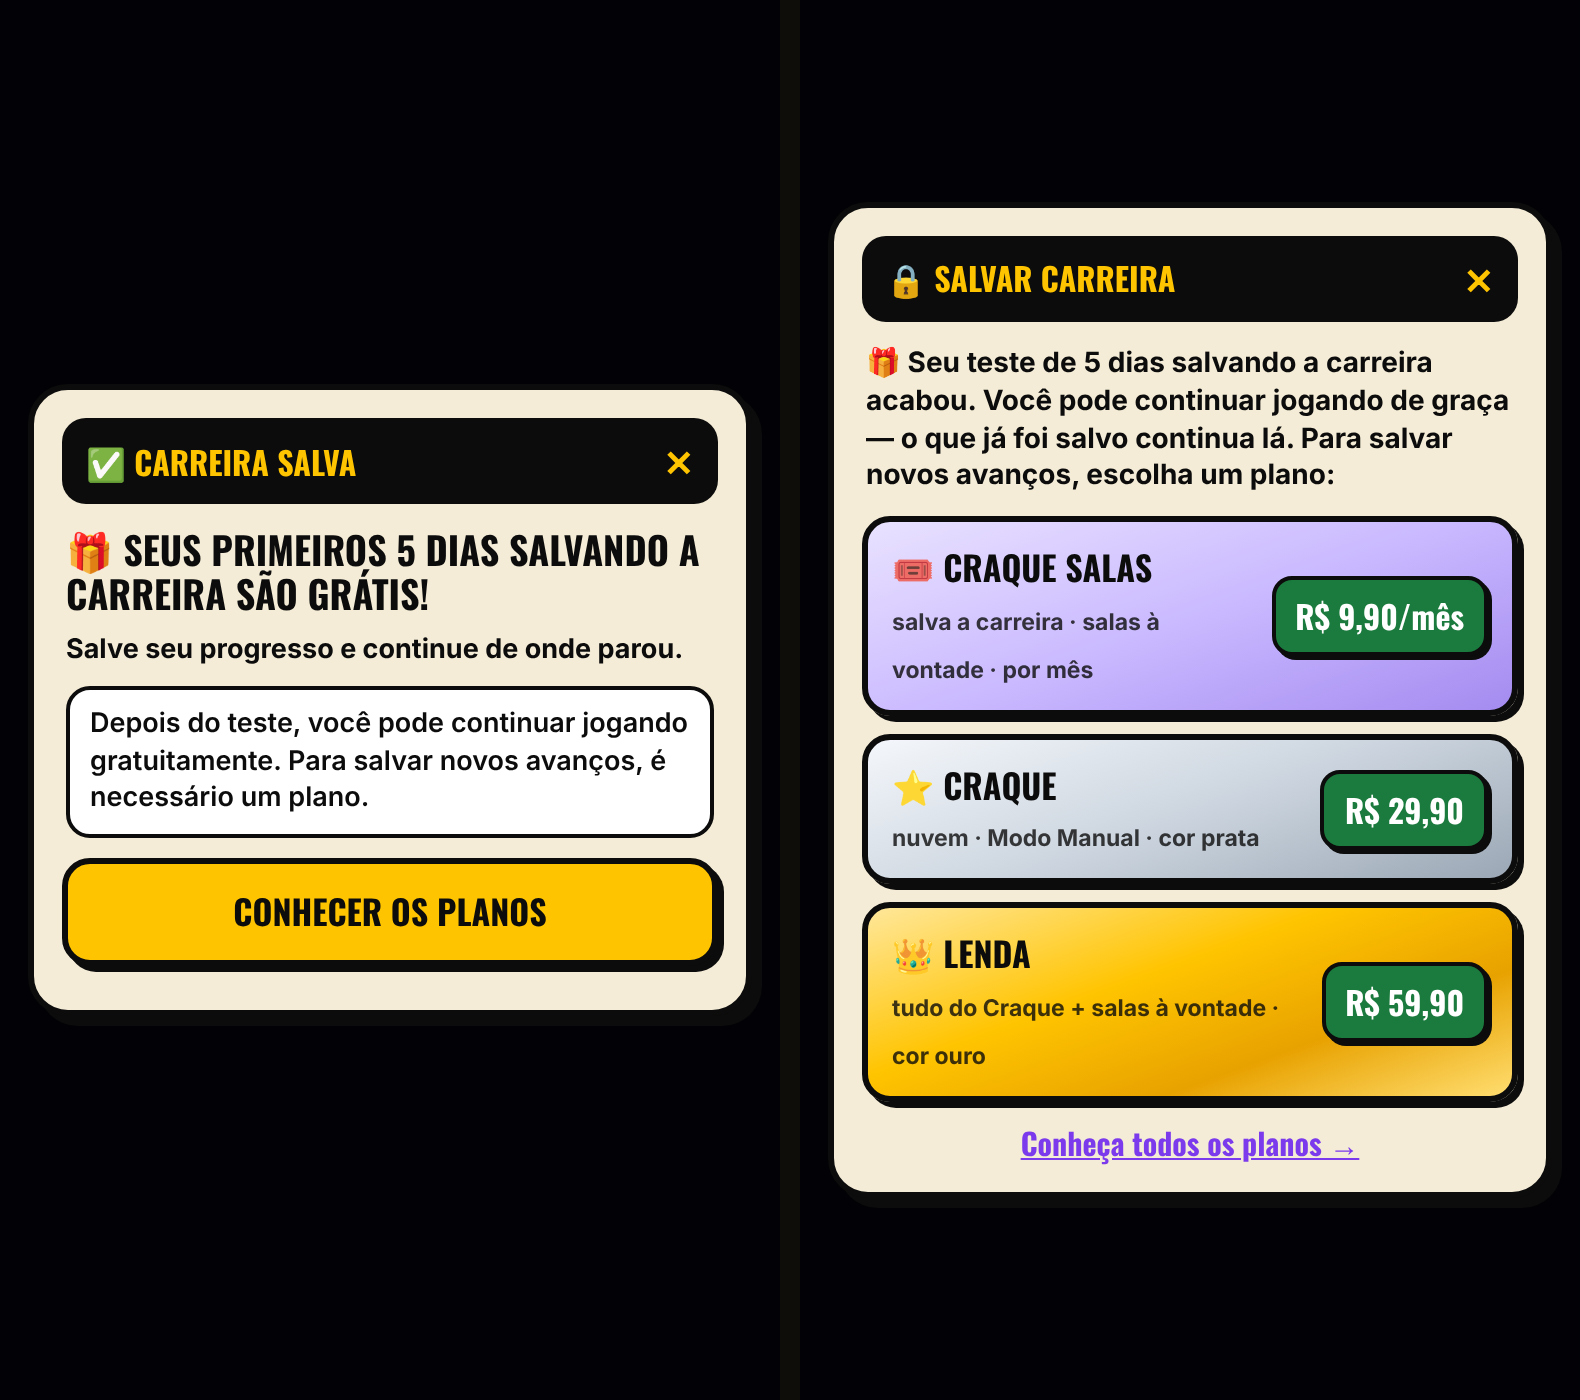
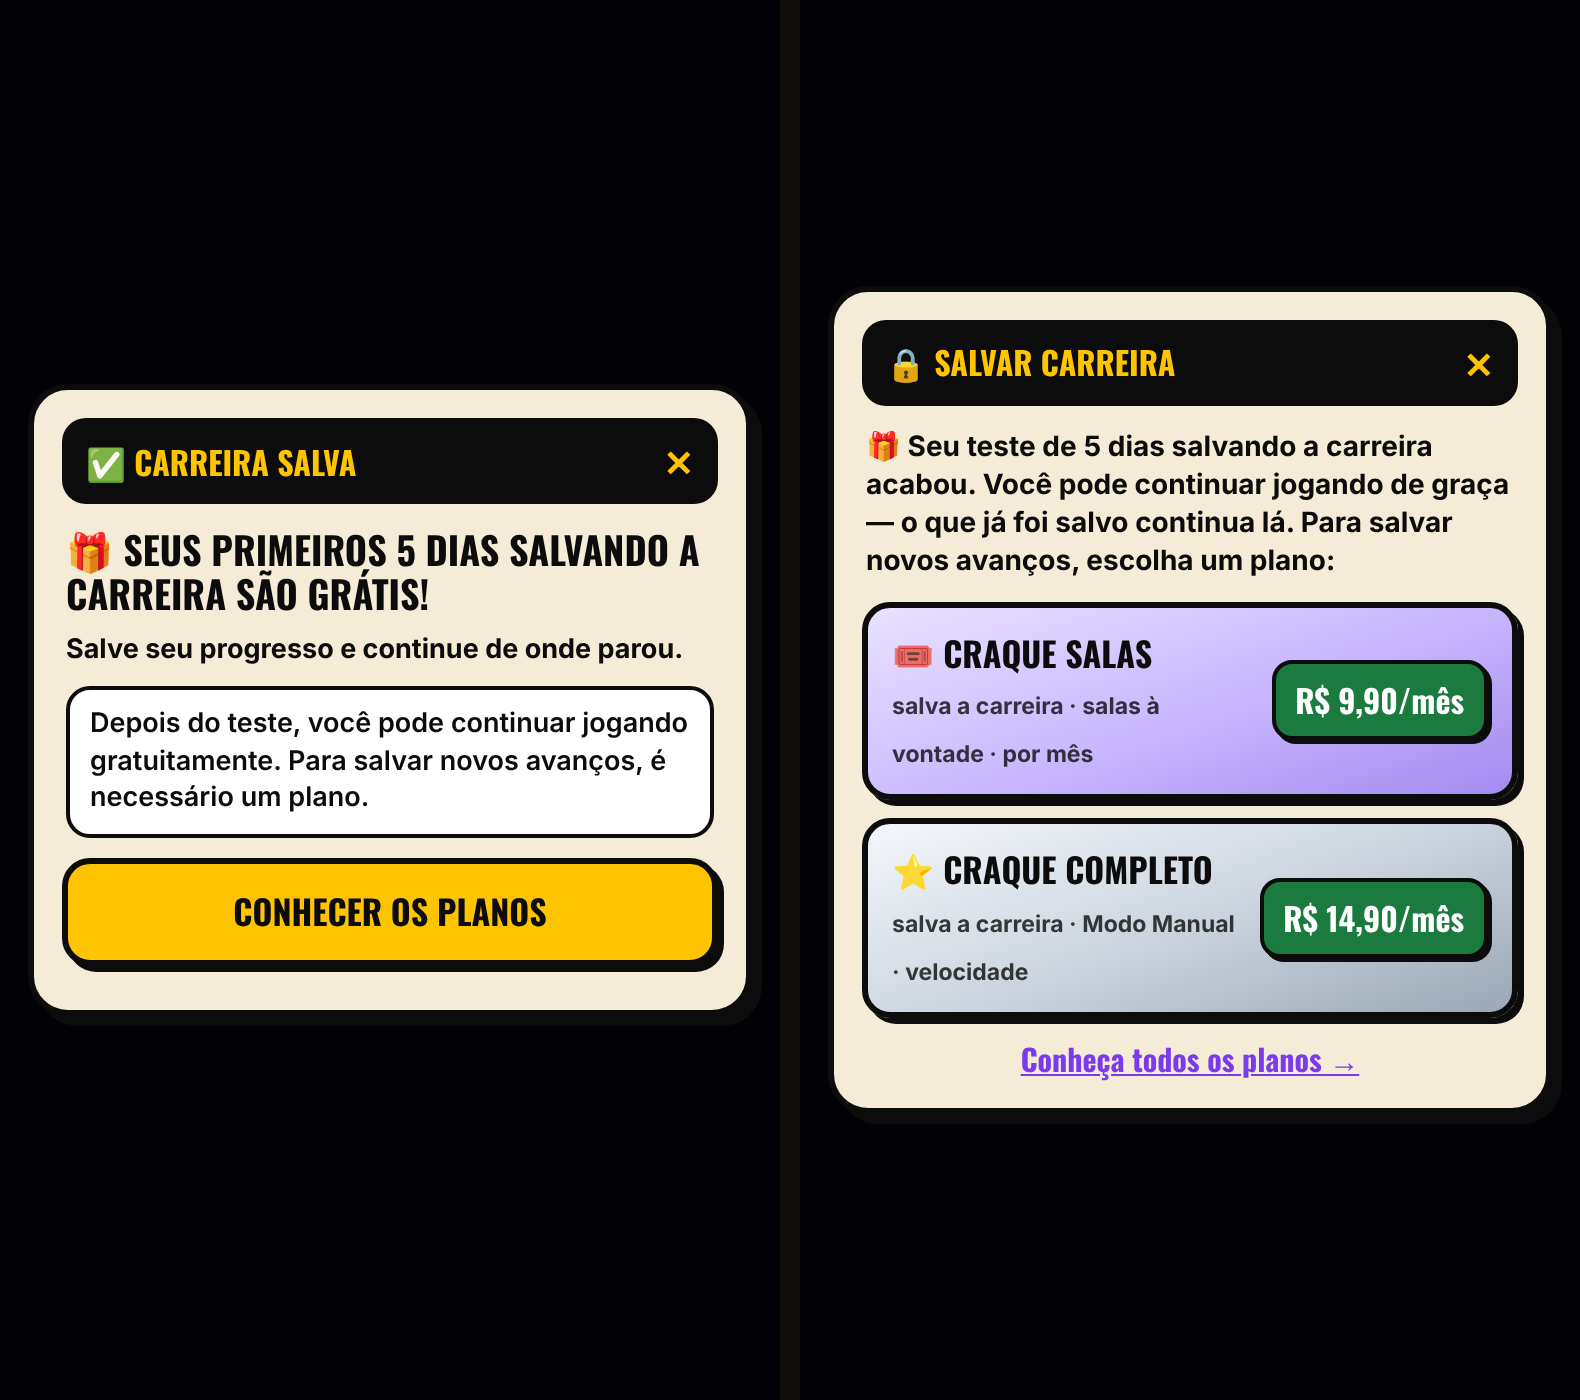
Cadeado do Salvar: mostra os planos de hoje (Craque Salas e Craque Completo mensais) no lugar do Craque/Lenda antigos
Claude-Session: https://claude.ai/code/session_012GPrTDbpvrApA6DArkzCpE

Changed region(s): [[0.5272, 0.1229, 0.9924, 0.86]]

diff --git a/src/escalacao/nuvem-planos.tsx b/src/escalacao/nuvem-planos.tsx
@@ -3,12 +3,9 @@
 // fica só no aparelho) e o aviso era uma faixinha que sumia em 2 s. Agora, ao apertar 💾 Salvar (ou 🚪 Sair e salvar) SEM
 // plano, abre esta janela. Ordem dele: *"não precisa falar que tá salvo no celular… bota só os planos, Craque, Lenda, e embaixo
 // 'conheça todos os planos'"* — que abre a vitrine com TODOS.
-import { useState } from 'react'
 import { createPortal } from 'react-dom'
 import { tr } from './lang'
-import { PixMP } from './pix-mp'
-import { PRECOS_UNICO } from './planos-regras'
-import { usePixMp } from './sport'
+import { MENSAIS } from './planos-regras'
 import { logApoio } from './apoio'
 import { assinarMensal } from './vendria-checkout'
 
@@ -19,22 +16,6 @@ const abre = (alvo: string) => { window.location.href = `${window.location.origi
 /** `aviso7` (26/10): a conta sem plano acabou de salvar na nuvem pela 1ª vez — a janela avisa do prazo de 7 dias */
 /** `travado` (04/11): sem plano a carreira não salva mais (nem no aparelho) — a janela abre no 🔒 Salvar com o Craque Salas no topo */
 export function JanelaNuvemPlanos({ onClose, aviso7, travado }: { onClose: () => void; aviso7?: boolean; travado?: boolean }) {
-  const pixMp = usePixMp()
-  const [pagando, setPagando] = useState<'craque' | 'lenda' | null>(null)
-  const escolhe = (p: 'craque' | 'lenda') => {
-    logApoio(`☁ salvar sem plano → ${p}`)
-    if (pixMp) setPagando(v => v === p ? null : p)
-    else abre(p === 'lenda' ? 'lenda' : 'craque')
-  }
-  const Plano = ({ p, nome, sub, grad }: { p: 'craque' | 'lenda'; nome: string; sub: string; grad: string }) => (
-    <div style={{ marginBottom: 9 }}>
-      <button onClick={() => escolhe(p)} style={{ width: '100%', display: 'flex', justifyContent: 'space-between', alignItems: 'center', gap: 8, textAlign: 'left', border: `3px solid ${INK}`, borderRadius: 14, padding: '10px 12px', background: grad, boxShadow: `3px 3px 0 ${INK}`, cursor: 'pointer', color: INK }}>
-        <span><b style={{ ...OSW, fontSize: 17, display: 'block', textTransform: 'uppercase' }}>{nome}</b><small style={{ fontSize: 11.5, fontWeight: 700, opacity: .8 }}>{sub}</small></span>
-        <span style={{ ...OSW, fontSize: 16, background: GREEN, color: '#fff', border: `2px solid ${INK}`, borderRadius: 10, padding: '6px 10px', boxShadow: `2px 2px 0 ${INK}`, whiteSpace: 'nowrap' }}>R$ {PRECOS_UNICO[p].toFixed(2).replace('.', ',')}</span>
-      </button>
-      {pagando === p && <div style={{ marginTop: 8 }}><PixMP produto={p} valor={PRECOS_UNICO[p]} /></div>}
-    </div>
-  )
   return createPortal(
     <div onClick={onClose} style={{ position: 'fixed', inset: 0, zIndex: 99985, background: 'rgba(0,0,0,.6)', display: 'flex', alignItems: 'center', justifyContent: 'center', padding: 14 }}>
       <div onClick={e => e.stopPropagation()} style={{ width: '100%', maxWidth: 420, maxHeight: '92vh', overflowY: 'auto', color: INK, background: '#F4ECD6', border: `3px solid ${INK}`, borderRadius: 20, boxShadow: `5px 5px 0 ${INK}`, padding: 14 }}>
@@ -52,14 +33,18 @@ export function JanelaNuvemPlanos({ onClose, aviso7, travado }: { onClose: () =>
             <div style={{ marginBottom: 9 }}>
               <button onClick={() => { logApoio('🔒 salvar carreira → Craque Salas (Vendria)'); void assinarMensal('craque_salas', tr) }} style={{ width: '100%', display: 'flex', justifyContent: 'space-between', alignItems: 'center', gap: 8, textAlign: 'left', border: `3px solid ${INK}`, borderRadius: 14, padding: '10px 12px', background: 'linear-gradient(160deg,#E9E2FF,#C9B8FF 52%,#A48BF0)', color: INK, boxShadow: `3px 3px 0 ${INK}`, cursor: 'pointer' }}>
                 <span><b style={{ ...OSW, fontSize: 17, display: 'block', textTransform: 'uppercase' }}>{tr('🎟 Craque Salas', '🎟 Craque Salas')}</b><small style={{ fontSize: 11.5, fontWeight: 700, opacity: .8 }}>{tr('salva a carreira · salas à vontade · por mês', 'saves your career · unlimited rooms · monthly')}</small></span>
-                <span style={{ ...OSW, fontSize: 16, background: GREEN, color: '#fff', border: `2px solid ${INK}`, borderRadius: 10, padding: '6px 10px', boxShadow: `2px 2px 0 ${INK}`, whiteSpace: 'nowrap' }}>R$ 9,90{tr('/mês', '/mo')}</span>
+                <span style={{ ...OSW, fontSize: 16, background: GREEN, color: '#fff', border: `2px solid ${INK}`, borderRadius: 10, padding: '6px 10px', boxShadow: `2px 2px 0 ${INK}`, whiteSpace: 'nowrap' }}>R$ {MENSAIS.craque_salas.preco.toFixed(2).replace('.', ',')}{tr('/mês', '/mo')}</span>
               </button>
             </div>
           </>
           : <p style={{ fontSize: 14, fontWeight: 700, margin: '12px 2px 10px' }}>{tr('Pra salvar a sua carreira na nuvem, escolha um plano:', 'To save your career to the cloud, pick a plan:')}</p>}
-        {aviso7 ? null : <>
-        <Plano p="craque" nome={tr('⭐ Craque', '⭐ Star')} sub={tr('nuvem · Modo Manual · cor prata', 'cloud · Manual Mode · silver colour')} grad="linear-gradient(160deg,#F4F7FB,#CBD4DE 52%,#9BA7B5)" />
-        <Plano p="lenda" nome={tr('👑 Lenda', '👑 Legend')} sub={tr('tudo do Craque + salas à vontade · cor ouro', 'everything in Star + unlimited rooms · gold colour')} grad="linear-gradient(160deg,#FFE79A,#FFC400 40%,#E8A200 70%,#FFDD70)" /></>}
+        {/* 08/11 (Diego: "tá errado os planos"): no cadeado do Salvar, os planos de HOJE que salvam a carreira — os mensais */}
+        {!aviso7 && <div style={{ marginBottom: 9 }}>
+          <button onClick={() => { logApoio('🔒 salvar carreira → Craque Completo (Vendria)'); void assinarMensal('craque_completo', tr) }} style={{ width: '100%', display: 'flex', justifyContent: 'space-between', alignItems: 'center', gap: 8, textAlign: 'left', border: `3px solid ${INK}`, borderRadius: 14, padding: '10px 12px', background: 'linear-gradient(160deg,#F4F7FB,#CBD4DE 52%,#9BA7B5)', boxShadow: `3px 3px 0 ${INK}`, cursor: 'pointer', color: INK }}>
+            <span><b style={{ ...OSW, fontSize: 17, display: 'block', textTransform: 'uppercase' }}>{tr('⭐ Craque Completo', '⭐ Craque Completo')}</b><small style={{ fontSize: 11.5, fontWeight: 700, opacity: .8 }}>{tr('salva a carreira · Modo Manual · velocidade', 'saves your career · Manual Mode · speed')}</small></span>
+            <span style={{ ...OSW, fontSize: 16, background: GREEN, color: '#fff', border: `2px solid ${INK}`, borderRadius: 10, padding: '6px 10px', boxShadow: `2px 2px 0 ${INK}`, whiteSpace: 'nowrap' }}>R$ {MENSAIS.craque_completo.preco.toFixed(2).replace('.', ',')}{tr('/mês', '/mo')}</span>
+          </button>
+        </div>}
         {aviso7 && <button onClick={() => { logApoio('🎁 teste 5 dias → conhecer os planos'); abre('nuvem') }} style={{ width: '100%', border: `3px solid ${INK}`, borderRadius: 14, padding: '11px 12px', background: GOLD, color: INK, boxShadow: `3px 3px 0 ${INK}`, cursor: 'pointer', ...OSW, fontSize: 17, textTransform: 'uppercase', marginBottom: 8 }}>{tr('Conhecer os planos', 'See the plans')}</button>}
         {!aviso7 && <button onClick={() => { logApoio('☁ salvar sem plano → todos os planos'); abre('nuvem') }} style={{ all: 'unset', display: 'block', width: '100%', textAlign: 'center', cursor: 'pointer', ...OSW, fontSize: 15, color: ROXO, textDecoration: 'underline', marginTop: 4 }}>
           {tr('Conheça todos os planos →', 'See all the plans →')}
